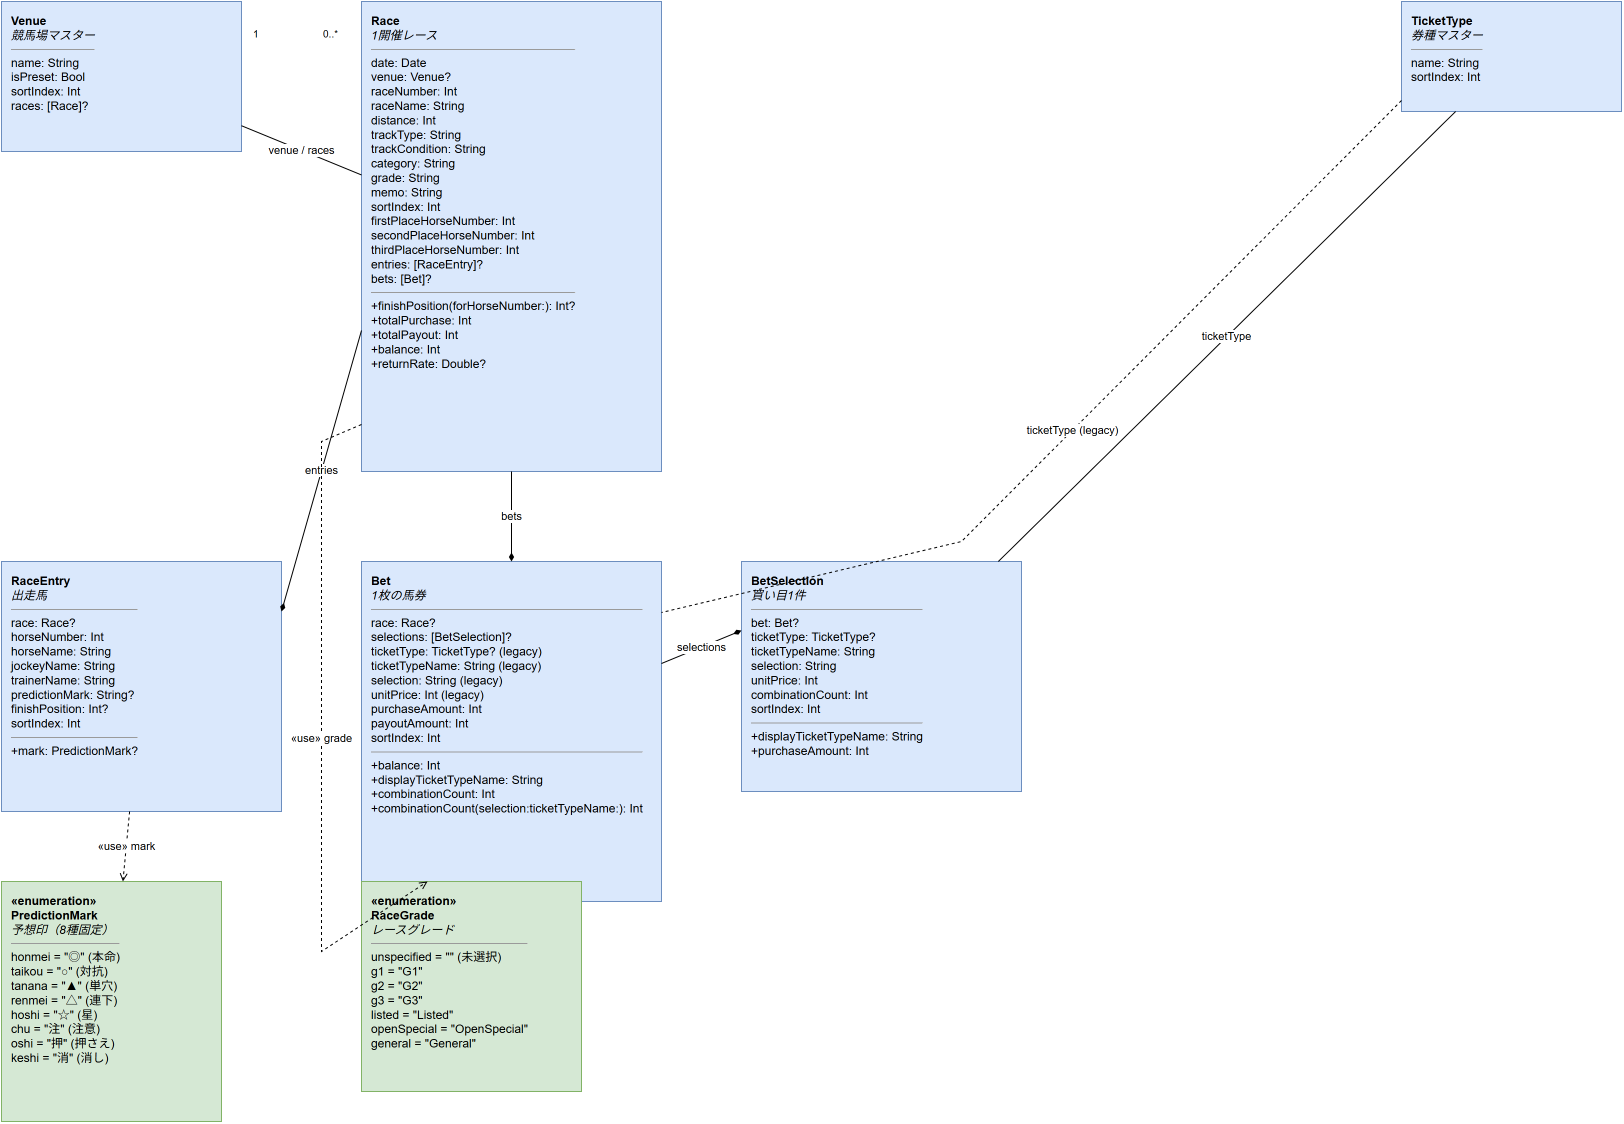
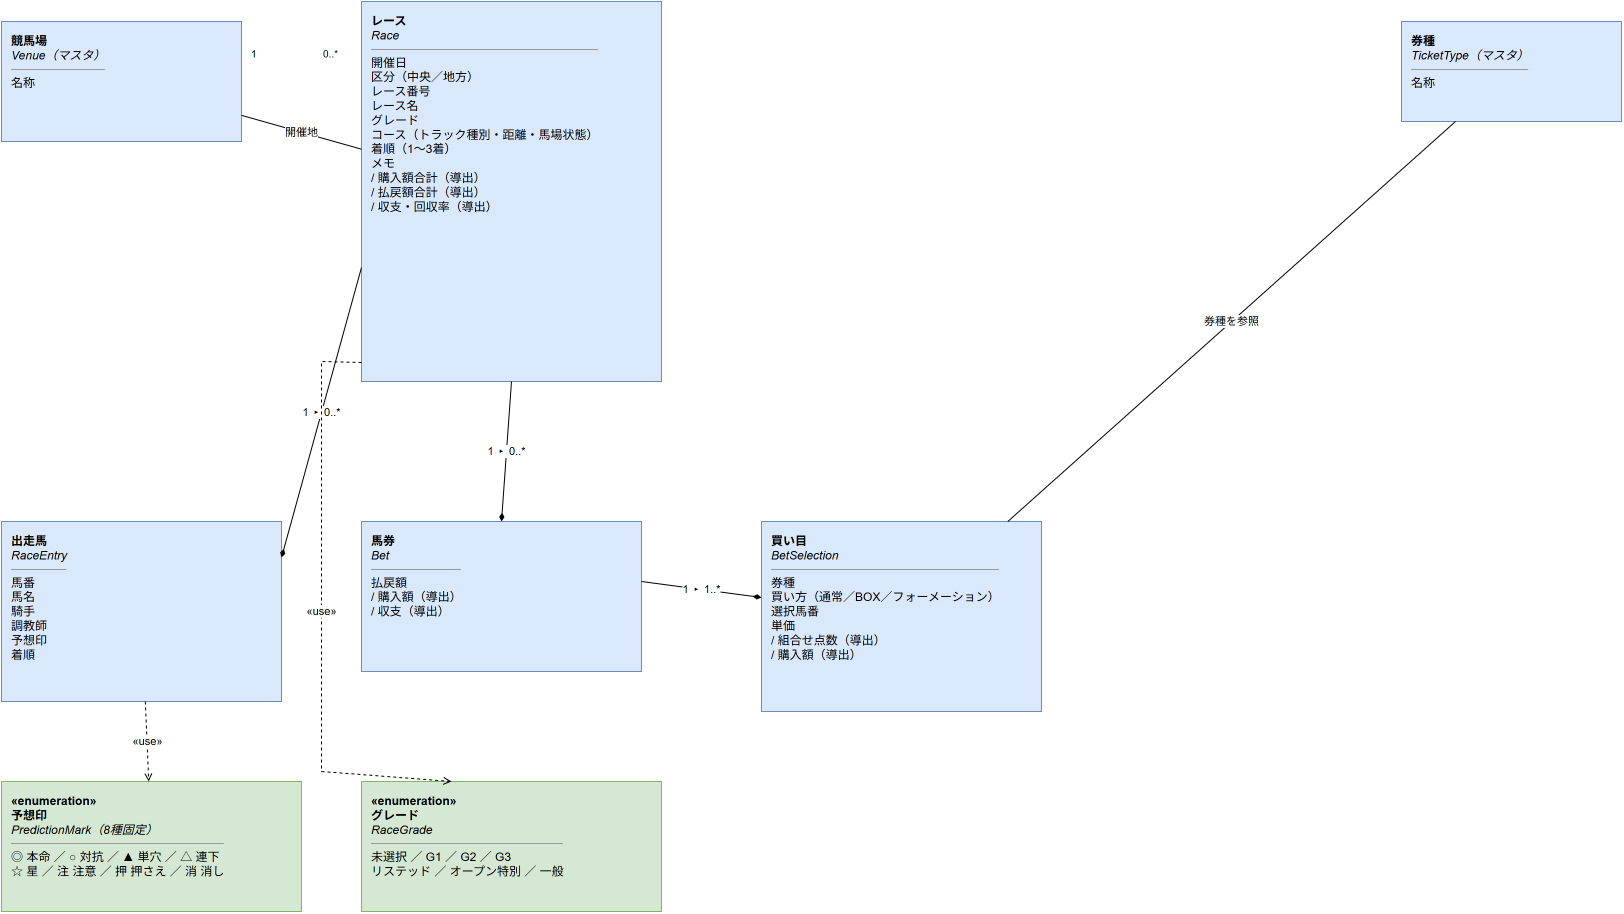
docs: アーキテクチャ設計書を上流視点で概念レベルに書き直す
実装詳細（型名・メソッド名・待機時間等）への言及を排し、責務と関係の記述へ統一。あわせてクラス図をドメインモデルに、ステートマシン図を記録のライフサイクルに、シーケンス図を概念アクターのやり取りに作り直した。

diff --git a/docs/Architecture.md b/docs/Architecture.md
@@ -1,91 +1,111 @@
 # Umalog アーキテクチャ設計書
 
-本書はUmalogのUML図（ユースケース図・アクティビティ図・クラス図・ステートマシン図・シーケンス図）を用いて設計をまとめたものです。各図の元データは[docs/uml](uml)配下にdrawio形式で置いてあり、draw.ioで編集できます。図が実装と食い違う場合はコード（`src/umalog`）を正とします。
+本書はUmalogの設計をUMLで示すものです。実装の詳細ではなく、システムとしてあるべき構造と振る舞い、すなわち責務とその関係に焦点を当てて記述します。各図の元データは[docs/uml](uml)配下にdrawio形式で置いてあり、draw.ioで編集できます。
 
-## 1. アーキテクチャ概要
+## 1. システム全体像
 
-- **UI**: SwiftUI（iOS 18+, Swift 6.2）
-- **永続化**: SwiftData（ローカルのみ、サーバーなし）
-- **UIKit連携**: `ShakeWindow`のみ（シェイクによるUndo検出。SwiftUIにシェイク検出APIがないための橋渡し）
-- **データフロー**: `RaceListView`/`RaceDetailView`などのViewが`@Query`/`@Environment(\.modelContext)`経由でSwiftDataに直接アクセスする。専用のViewModel層は存在しない。
-- **非機能要件**: ローカル限定・完全無料・プライバシーファースト（`AGENTS.md`のNon-Negotiablesを参照）。
+Umalogは、利用者が自身の競馬予想と収支を記録・振り返るための、単一利用者・単一デバイス向けアプリケーションです。
 
-画面構成は`ContentView`の3タブ構成とする。1つ目は`RaceListView`（ホーム）で、`RaceDetailView`と`RaceFormView`/`RaceEntryFormView`/`BetFormView`へ遷移する。2つ目は収支を集計する`BalanceSummaryView`、3つ目はマスタ管理・ZIPバックアップ／復元・初期化を行う`SettingsView`とする。
+設計原則（ゆずれない前提）:
+
+- **ローカル完結**: データは端末内に閉じ、外部へ送信しない。サーバーやアカウントを持たない
+- **プライバシーファースト**: 利用者のデータが端末外へ出ないことを最優先とする
+- **完全無料・無制限**: 課金・利用制限を設けない
+- **記録専用**: 投票・購入といった賭け行為への導線を一切持たない
+
+構成方針:
+
+- **プレゼンテーション**（画面）・**ドメインモデル**（記録対象の概念）・**永続化**（端末内保存）の3つの関心事に分離する
+- 業務ロジックは軽量で、画面がドメインモデルを直接扱う薄い構成とする。集計・点数計算などの派生値はモデルから導出する
+- 画面領域は「記録」（レースの一覧・詳細・入力）、「収支集計」、「設定・データ管理」の3つに大別される
 
 ---
 
 ## 2. ユースケース図
 
-要件（誰が何をしたいか）を表す。アクターは「ユーザー（利用者本人）」の1人のみで、外部システムやアカウントは存在しない（ローカル単独利用）。
+要件（誰が何をしたいか）を表します。アクターは「利用者本人」ただ1人で、外部システムや他者は関与しません（単独利用）。
 
 ![ユースケース図](uml/usecase.png)
 
 - **レース管理**: レースの登録・編集・削除・絞り込み／並び替え
-- **出走馬・予想管理**: 出走馬登録、予想印付け、着順入力
-- **馬券管理**: 馬券登録（通常／BOX／フォーメーション）と払戻入力。「組合せ点数を自動計算する」は`«include»`される内部機能（`Bet.combinationCount`）
-- **メモ・収支確認**: Markdownメモ、日／月／年／期間別の収支集計
-- **データ管理**: ZIPバックアップ作成・復元（復元は「既存レースデータを置換する」を`«include»`）、データ初期化、競馬場／券種マスタ管理
-- **取り消し**:「シェイクで直前操作を取り消す」は「レースを削除する」を`«extend»`する（削除操作に対するUndo機能）
+- **出走馬・予想管理**: 出走馬の登録、予想印付け、着順入力
+- **馬券管理**: 馬券登録（通常／BOX／フォーメーション）と払戻入力。組合せ点数の自動算出は登録に内包される
+- **メモ・収支確認**: レースメモの記録、日／月／年／期間別の収支確認
+- **データ管理**: バックアップの作成・復元、データ初期化、競馬場／券種マスタの管理
+- **取り消し**: 直前の削除操作を取り消す（削除の安全網として機能する）
 
 ---
 
 ## 3. アクティビティ図
 
-処理・業務の流れを表す。ユーザーとシステム（SwiftData/CSVExporter等）の2レーンで、レース登録から収支確認までの基本業務フローを示す。
+処理・業務の流れを表します。利用者とシステムの2レーンで、レース登録から収支確認までの基本フローを示します。
 
 ![アクティビティ図](uml/activity.png)
 
 ポイント:
-- 予想印の入力は任意（出走馬登録後の分岐）
-- 馬券登録時、組合せ点数と購入額はシステム側（`Bet.combinationCount`）が自動計算する
-- レース結果が未確定の場合はその時点で終了してよく、着順・払戻は後から改めて入力できる（`firstPlaceHorseNumber`などの初期値`0`が「未入力」を表す設計）
-- 収支（`balance`/`returnRate`）は払戻額入力のたびにシステムが自動計算する
+
+- 予想印の入力は任意（省略して馬券登録へ進める）
+- 購入額・組合せ点数はシステムが自動算出し、利用者は買い目と単価の入力に集中できる
+- レース結果が未確定の時点で一旦終了してよく、着順・払戻は後から改めて入力できる
+- 収支・回収率は入力内容から都度自動算出され、利用者が手計算する必要はない
 
 ---
 
 ## 4. クラス図
 
-静的な構造（骨格）を表す。SwiftDataの`@Model`クラス（`Race`/`RaceEntry`/`Bet`/`BetSelection`/`Venue`/`TicketType`）から成る。加えて、値のみの`enum`（`PredictionMark`/`RaceGrade`）を持つ。
+静的な構造（骨格）を表します。ここでは記録対象の概念とその関係を示すドメインモデルであり、保存形式や型といった実装上の詳細は捨象しています。
 
 ![クラス図](uml/class.png)
 
-- `Race` *— `RaceEntry`/`Bet`、`Bet` *— `BetSelection`は`deleteRule: .cascade`によるコンポジション（親削除で子も削除）
-- `Venue` — `Race`は`deleteRule: .nullify`（競馬場削除時はレース側の参照だけが`nil`になり、レース自体は残る）関連
-- `TicketType` — `Bet`/`BetSelection`も同様にnullifyの関連（`Bet.ticketType`はレガシー互換用フィールド）
-- CloudKit互換のため、全リレーションはoptionalとする。順序はSwiftDataのordered relationshipを使わず`sortIndex: Int`で管理する（`AGENTS.md`の制約と一致）
-- `RaceEntry.mark`は`predictionMark: String?`を`PredictionMark` enumとして読み書きするアクセサである。`Race.grade`も同様に`RaceGrade`のrawValueを保存する文字列である
+主な概念と関係:
+
+- **レース**を中心に、その参加者である**出走馬**と、投じた**馬券**がぶら下がる
+- **馬券**は1つ以上の**買い目**から成り、買い目ごとに券種・買い方・選択馬・単価を持つ
+- **競馬場**と**券種**は複数のレース・買い目から参照されるマスタ概念。マスタが失われても、それを参照していた記録自体は残る（記録の独立性を保つ）
+- 購入額・払戻額・収支・回収率は個々の記録から導出される派生値であり、独立に保持しない（二重管理を避ける）
+- **予想印**は8種の固定値、**グレード**も列挙された値の集合として扱う
+
+関係の強さ:
+
+- レースと出走馬・馬券、馬券と買い目は**コンポジション**（親を消せば子も消える一体の記録）
+- 競馬場・券種と記録の間は**参照**（片方を消してももう片方は独立して残る）
 
 ---
 
 ## 5. ステートマシン図
 
-動的な振る舞い①：状態の変化を表す。`Race`に明示的なステータス列（enum）は存在しないため、これは**保持しているフィールドの充足状況から導出した概念的な状態遷移**である（実装上のリテラルな状態機械ではない点に注意）。
+動的な振る舞い①：状態の変化を表します。1件のレース記録が、利用者の記録作業の進行に伴ってたどるライフサイクルを示します。これは記録の充足度から導かれる概念的な状態であり、明示的な状態区分をデータとして持つわけではありません。
 
 ![ステートマシン図](uml/state.png)
 
-- **基本情報登録済み** → **出走馬登録済み**（`entries.count > 0`）
-- **出走馬登録済み** → **着順確定済み**（1〜3着の馬番を入力、`firstPlaceHorseNumber > 0`など）
-- **着順確定済み** ⇄ **馬券精算済み**（全馬券の払戻額を入力／再編集）。`AGENTS.md`に記載の通り「未精算の馬券は払戻額 ¥0」という設計上の取り決めにより、精算済みか否かを`payoutAmount`の値だけで判定する
-- どの状態からも「レースを削除する」（`RaceListView.deleteRace`）へ遷移でき、シェイク操作により`UndoManager`経由で直前状態に復元できる
+- **記録開始**: レースの基本情報だけがある段階
+- **予想確定**: 出走馬と予想を入力し、レースに臨む段階
+- **結果記録済み**: 着順を入力し、レース結果が判明した段階
+- **収支確定**: 全馬券の払戻を入力し、そのレースの損益が確定した段階
+- いずれの段階からも記録は削除でき、削除は取り消し（Undo）によって元の状態へ復元できる
+
+各段階は前後に自由に行き来でき、後から予想や結果を修正できる柔軟さを持たせています。
 
 ---
 
 ## 6. シーケンス図
 
-動的な振る舞い②：やり取りの順番を表す。本アプリ特有の「スワイプ削除 → シェイクで取り消し（Undo）」の一連のやり取りを取り上げる（`RaceListView.deleteRace`と`ContentView`のシェイクハンドリング）。
+動的な振る舞い②：やり取りの順番を表します。本アプリを特徴づける「削除と、その取り消し（Undo）」のやり取りを取り上げます。
 
 ![シーケンス図](uml/sequence.png)
 
-- 削除前に`RaceSnapshot`へレースと子データ（出走馬・馬券・買い目）のスナップショットを取る。`UndoManager.registerUndo`にクロージャとして復元処理を登録してから、`ModelContext`で削除する
-- シェイクは`UIWindow.motionEnded` → `NotificationCenter`（`.deviceDidShake`）→ `ContentView.onReceive`という経路で検出する。これはUIKitからSwiftUIへのブリッジである
-- Undo実行はアラートのdismissアニメーション完了を待つため350ms遅延させてから行う（`List`の差分計算崩れを防止するため。`AGENTS.md`のタシットナレッジ参照）
+- 削除に先立ち、システムは削除対象の記録を退避し、元に戻すための手順を取り消し管理に登録する。これにより、削除後でも復元が可能になる
+- 利用者はデバイスを振る操作で取り消しを呼び出せる。システムは取り消し可能な操作があるか確認し、確認ダイアログを提示する
+- 利用者が承認すると、退避しておいた記録が復元され、一覧に元通り表示される
+
+削除を即時に確定させず「退避 → 確認 → 復元」の余地を常に残すことで、誤操作に強い記録体験を実現します。
 
 ---
 
 ## 7. アーキテクチャ上の申し送り事項
 
-- **`Bet`のレガシーフィールド**: `ticketType`/`ticketTypeName`/`selection`/`unitPrice`は`BetSelection`導入前の旧データモデルの互換用として残っている。`AppDelegate.migrateToSelectionModelIfNeeded`が起動時に`BetSelection`未生成の旧馬券を移行するため、削除する際はこの移行ロジックとの整合を確認すること
-- **ZIPバックアップの結合キー**: `ZipImporter`はCSV上で永続IDを持てないため、レースを「日付＋競馬場名＋レース番号」の合成キーで突き合わせている。同一日・同一競馬場・同一レース番号のレースが重複登録された場合はインポート時に取り違える余地があるため、キー設計を変更する場合は要注意
-- **Undo/スナップショットの重複実装**: レース削除（`RaceListView`）と出走馬・馬券削除（`RaceDetailView`）でそれぞれ個別に`Snapshot`構造体と復元クロージャを実装している。共通化されていないため、削除可能な画面を新設する場合は同様のスナップショット実装が都度必要になる
-- **シェイクUndoのUIKit依存**: `ShakeWindow`は`UIWindow.motionEnded`のオーバーライドに依存し、加速度センサーのないプラットフォームでは機能しない。Issue #14（macOS/iPadOS対応）に着手する際は、シェイク以外のUndo導線（メニュー操作など）を別途用意する必要がある
-- **JRA出走馬自動取得（Issue #1）と非機能要件の整合**: ネットワーク経由の取得は「ローカル限定・外部へのデータ送信なし」という非交渉事項と衝突しうる。実装する場合はユーザーが明示的に貼り付けた内容を解析するなど、アプリが自発的に通信しない設計にする必要がある（`AGENTS.md`のOpen Issues参照）
+- **記録形式の変更と移行**: 記録の内部表現を変更する際は、既存データを新形式へ移行する経路を必ず用意する。移行なしの形式変更は過去記録の欠損につながる
+- **バックアップの同一性判定**: エクスポート／インポートでは記録を論理的なキー（開催日・競馬場・レース番号など人が識別できる属性）で突き合わせる。同一キーの記録が重複しうる設計変更を行う場合は、取り違えが起きないようキーの一意性を再検討する
+- **取り消し（Undo）の一貫性**: 削除を伴う操作には「削除前の退避」と「復元手順の登録」が対で必要になる。削除可能な対象を増やすときは、この対を欠かさない
+- **入力ジェスチャの前提**: 取り消しをデバイスのシェイクに依存させている。シェイクを前提にできないプラットフォームへ展開する場合は、代替の取り消し導線を別途用意する
+- **外部データ取得と非機能要件の緊張関係**: 出走馬情報などの自動取得は「ローカル完結・外部送信なし」という前提と衝突しうる。取り込む場合も、アプリが自発的に通信しない設計（利用者が明示的に持ち込んだデータのみを扱う等）を守る
